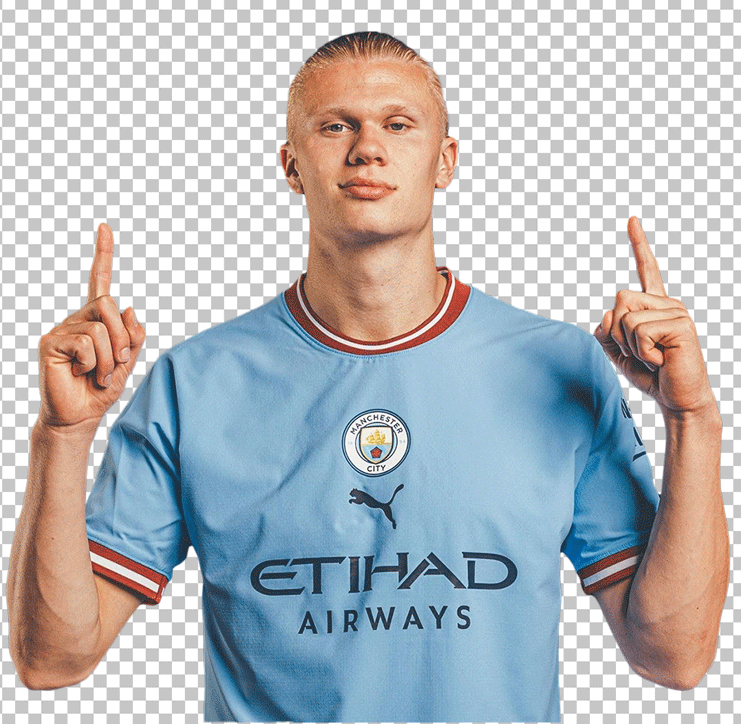
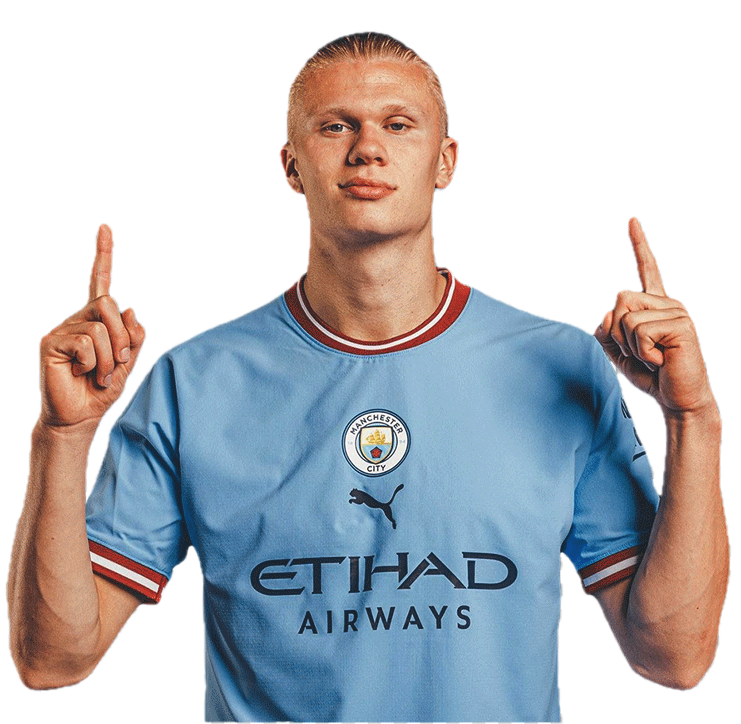
Added all the images and removed the grid on the background. Also deleted the code in Home.jsx and created the Index.jsx (Setup)

Changed region(s): [[0.0, 0.0, 1.0, 1.0], [0.8381, 0.5166, 0.9001, 0.6989]]

diff --git a/src/Pages/Index.jsx b/src/Pages/Index.jsx
@@ -1,0 +1,20 @@
+import "../CSS/Index.css";
+
+
+
+export default function Index({ dataArr }) {
+    return (
+        <>
+               {dataArr.map((obj, idx) => {
+                return (
+                <>
+                    <p id={idx} >{obj.name}</p>
+                    <div id={idx} className="image-container">
+                        <img className="player-image" id={idx} src={`${obj.name}.png`}/>
+                    </div>
+                </>
+                )
+            })}
+        </>
+    )
+}

diff --git a/src/Pages/Home.jsx b/src/Pages/Home.jsx
@@ -1,16 +1,9 @@
 import "../CSS/Home.css";
 
-export default function Home({ dataArr }) {
+export default function Home() {
     return (
         <>
-            {dataArr.map((obj, idx) => {
-                return (
-                <>
-                    <p id={idx} >{obj.name}</p>
-                    <img className="player-image" id={idx} src={`${obj.name}.png`}/>
-                </>
-                )
-            })}
+         HOME PAGE
         </>
     )
 }

diff --git a/src/App.jsx b/src/App.jsx
@@ -7,6 +7,7 @@ import NavBar from './Components/NavBar';
 
 //Pages
 import Home from './Pages/Home';
+import Index from './Pages/Index';
 
 function App() {
 
@@ -24,7 +25,8 @@ function App() {
     <Router>
       <NavBar/>
       <Routes>
-        <Route path="/" element={<Home dataArr={dataArr}/>}/>
+        <Route path="/" element={<Home />}/>
+        <Route path="/index" element={<Index dataArr={dataArr}/>}/>
       </Routes>
     </Router>
   )

diff --git a/src/CSS/Home.css b/src/CSS/Home.css
@@ -1,3 +1,8 @@
 .player-image {
     width: 200px;
+    /* background: black; */
+}
+
+.image-container {
+    /* background: black; */
 }
